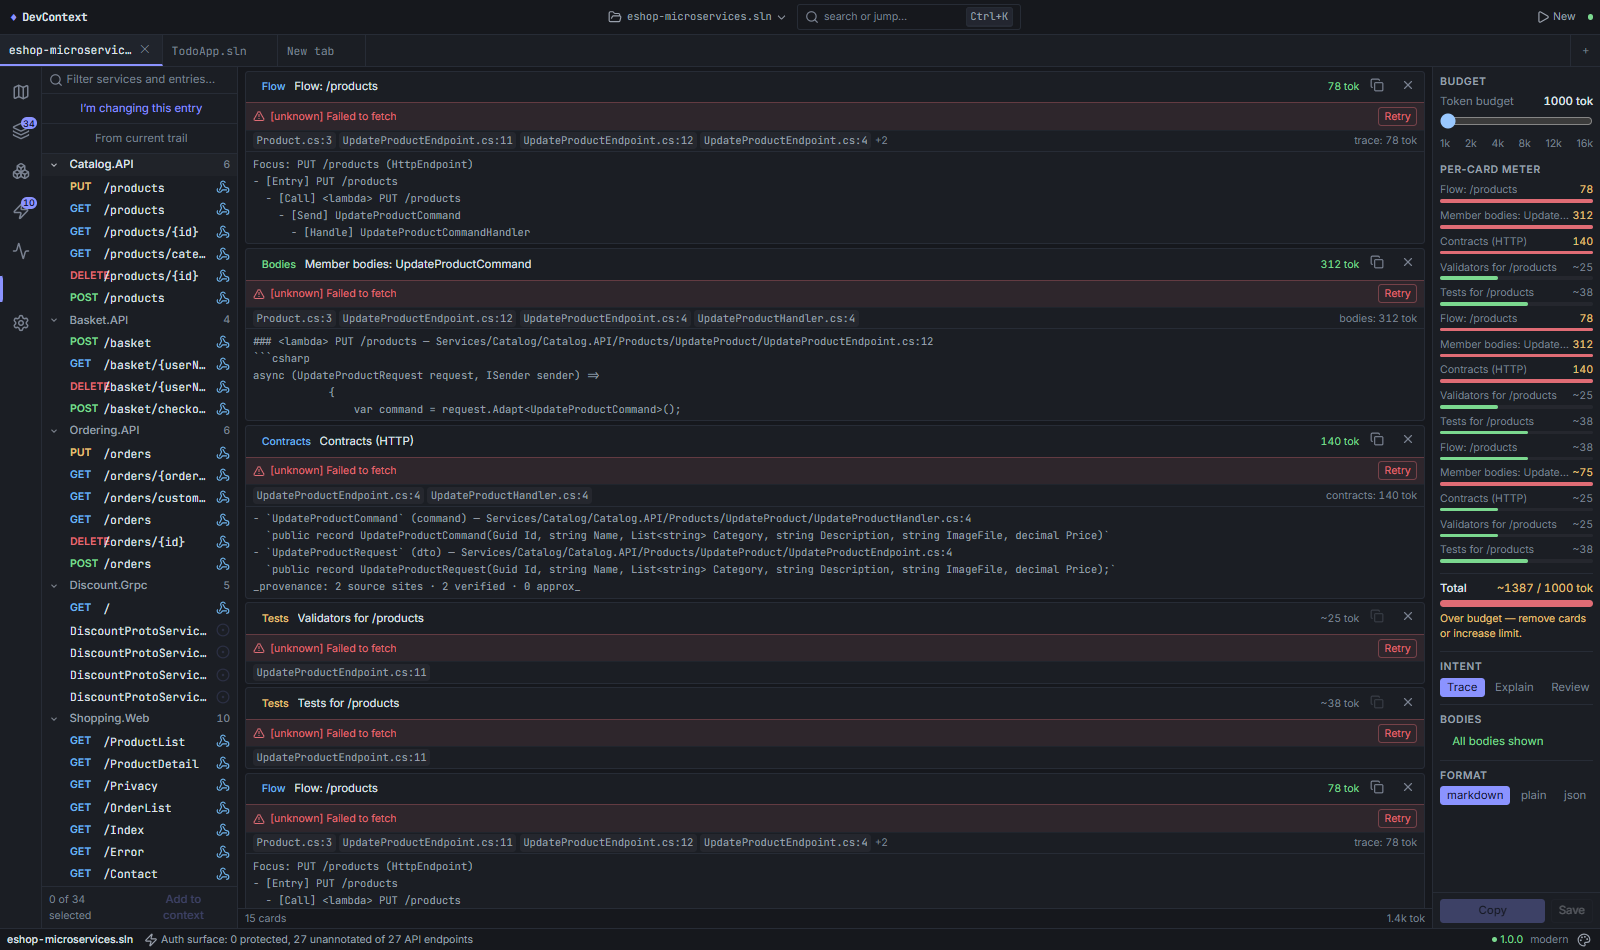
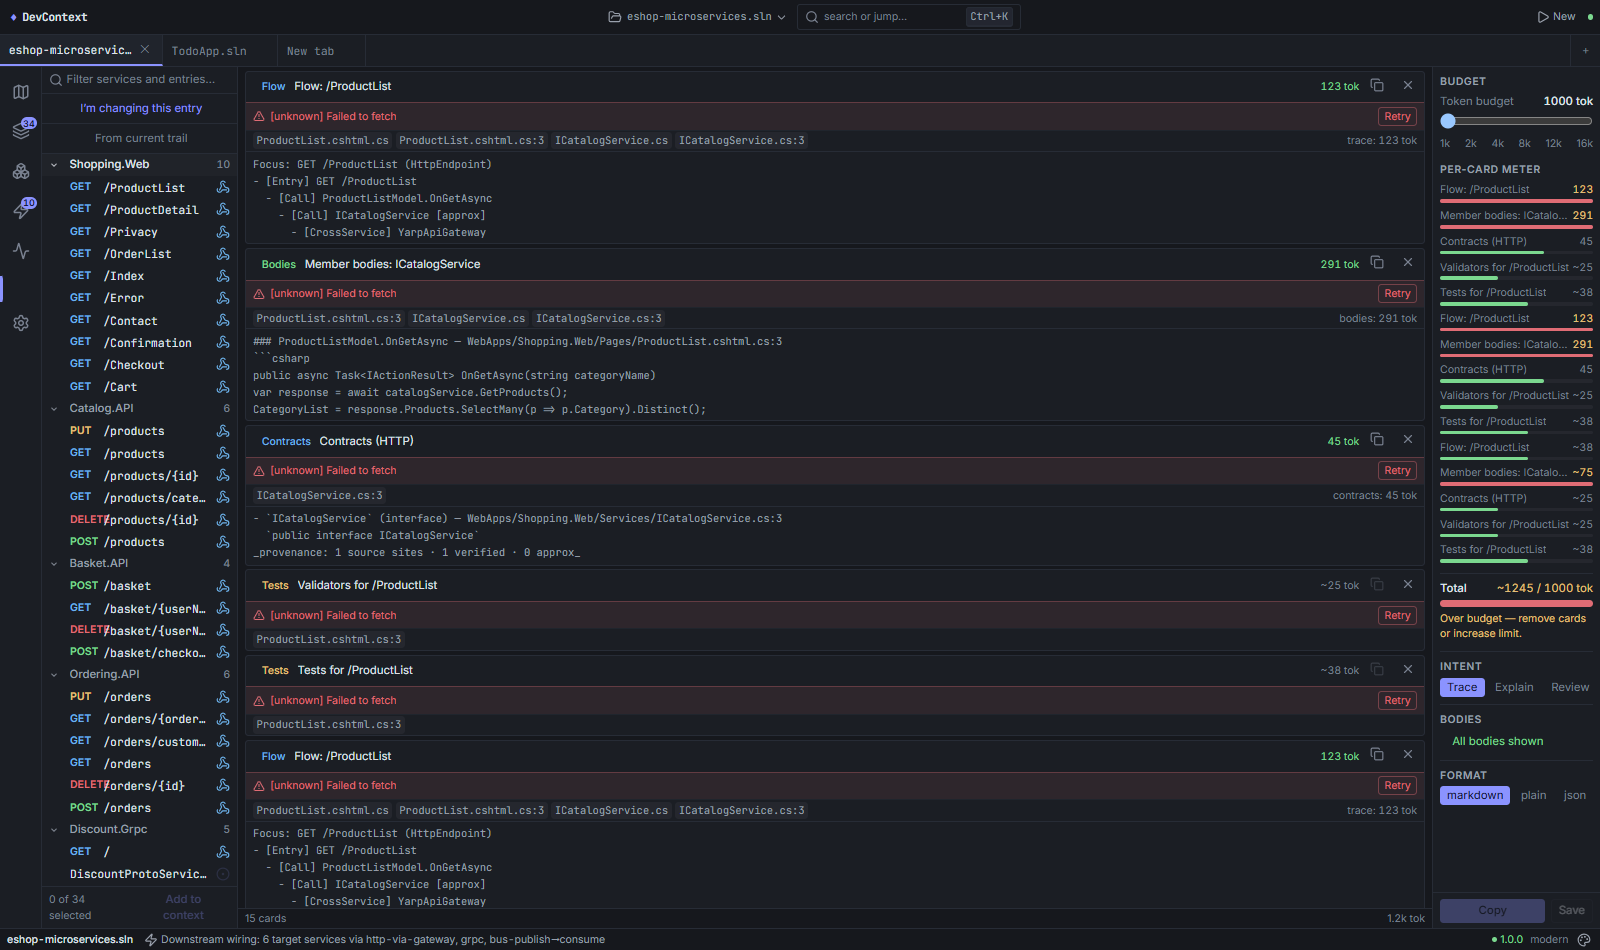
feat(t6): T6.5+T6.6 — single-key nav, route-restore guard, keyboard+theme drive battery
T6.5: the rail's declared h/e/a/i/m/c/s shortcuts now navigate (finding 37) — wired
after the g-prefix branch, input-guarded, session-gated like the rail's disabled
state. Route restore only returns to WORK routes (explore/atlas/insights/context):
restoring /settings made every fresh load of / render Settings (finding 49,
reproduced live in the T6.0 shamshir drive where it corrupted two probe results).

T6.6: drive gate gains L-theme-matrix — every vibe x declared theme (modern
dark+light, terminal/hacker dark-only BY DESIGN) reloads and asserts shell surface
luminance matches the resolved mode. J-keyboard-battery (real page.keyboard.press,
never synthetic dispatch) and K-route-restore-home join it.

Drive gate hardening: step I's drift file now comes from the pack's OWN provenance
chips (T5.3 titles are repo-relative file:line) — the hardcoded
CheckoutBasketHandler.cs went stale-proof whenever the preset seeded another focus
(the fallback search landed on WebApp's unwired GET /Checkout, audit B2's trap).
Gate: 12/12 PASS --gate exit 0 (eval-results/2026-07-16/ui/).

Claude-Session: https://claude.ai/code/session_01ChfWSCiRJV2qLww4tyTkQn

diff --git a/src/DevContext.App/src/app/shell/workspace-shell.ts b/src/DevContext.App/src/app/shell/workspace-shell.ts
@@ -42,6 +42,10 @@ const VIEW_SHORTCUTS: Record<string, string> = {
   s: '/settings',
 };
 
+/** Routes whose rail items carry `requiresSession: true` — single-key nav respects the
+ * same gate the rail's disabled state shows. */
+const SESSION_ROUTES = new Set(['/explore', '/atlas', '/insights', '/context']);
+
 /** Full §8.4 keyboard map (GAP-T2) — every row here corresponds to a real, currently
  * wired handler: `omnibox.ts` (Ctrl+K/P), `tab-strip.ts` (Ctrl+T/W/1-6/Tab), this file
  * (g-prefix nav, ?, Escape-for-help), `workbench-page.ts`'s `onGlobalKey`/`onEscape`
@@ -63,7 +67,7 @@ const SHORTCUT_HELP = [
   { keys: 'Shift+E', desc: 'Open the entry table lens' },
   { keys: 'v t / v g / v s / v n', desc: 'Stage: tree · graph · system · node' },
   { keys: 'p', desc: 'Pin the current selection to the trail' },
-  { keys: 'g h/e/a/i/m/c/s', desc: 'Go to Home / Explore / Atlas / Insights / MCP / Context / Settings' },
+  { keys: 'h/e/a/i/m/c/s (or g-prefixed)', desc: 'Go to Home / Explore / Atlas / Insights / MCP / Context / Settings' },
   { keys: '?', desc: 'Show this help' },
   { keys: 'Escape', desc: 'Esc-ladder: cancel trace → close overlay → unpin peek → deselect node → clear focus → clear filter' },
 ];
@@ -127,6 +131,7 @@ const SHORTCUT_HELP = [
 })
 export class WorkspaceShell implements OnDestroy {
   private readonly router = inject(Router);
+  private readonly session = inject(SessionStore);
   protected readonly helpItems = SHORTCUT_HELP;
   protected readonly helpOpen = signal(false);
 
@@ -139,7 +144,7 @@ export class WorkspaceShell implements OnDestroy {
     inject(WebviewShortcutsService).start();
     inject(SingleInstanceService).start();
 
-    const session = inject(SessionStore);
+    const session = this.session;
     const atlas = inject(AtlasStore);
     const ticker = inject(TickerService);
 
@@ -228,6 +233,21 @@ export class WorkspaceShell implements OnDestroy {
       }
       this.gPending.set(false);
       if (this.gTimer) clearTimeout(this.gTimer);
+      return;
+    }
+
+    // T6.5 (audit finding 37): the activity rail declares single-key shortcuts
+    // (RailItem.shortKey) that never navigated — only the g-prefix worked. Wire them.
+    // Runs AFTER the g-prefix branch so `g e` and plain `e` both land on /explore, and
+    // only when no overlay wants the key (inputs are already excluded above; page-local
+    // keys — j/k/p/v//, Enter — don't overlap this set). Session-requiring routes stay
+    // dead until a repo is analyzed, matching the rail's disabled state.
+    if (!this.helpOpen()) {
+      const route = VIEW_SHORTCUTS[e.key];
+      if (route && (this.session.ready() || !SESSION_ROUTES.has(route))) {
+        e.preventDefault();
+        void this.router.navigateByUrl(route);
+      }
     }
   }
 

diff --git a/src/DevContext.App/src/app/shell/tab-strip.ts b/src/DevContext.App/src/app/shell/tab-strip.ts
@@ -5,6 +5,12 @@ import { filter } from 'rxjs/operators';
 import { SessionStore } from '../state/session.store';
 import { type TabState, WorkspaceStore } from '../state/workspace.store';
 
+/** Boot-restore targets: pages that represent WORK in progress. Settings/MCP are
+ * destinations you visit deliberately, not places to wake up in (finding 49). */
+function isRestorableRoute(route: string): boolean {
+  return /^\/(explore|atlas|insights|context)([/?#]|$)/.test(route);
+}
+
 /**
  * The 32px multi-tab strip (I10) — sits under the header, to the right of the icon rail. Up to
  * WorkspaceStore.MAX_TABS independent repo sessions; switching rewrites the URL to that tab's last
@@ -83,9 +89,12 @@ export class TabStrip {
     // On boot, restored tabs land on screen idle (I10.4 — never auto-analyze all of them). If the
     // one that was active when the app last closed carries a path, jump straight to its remembered
     // route and lazily re-analyze it (below) — the OTHER restored tabs stay untouched until clicked.
+    // T6.5 (audit finding 49): restore only WORK routes. Restoring /settings (or /mcp) made every
+    // fresh load of `/` render Settings — reproduced live in the T6.0 shamshir drive, where it also
+    // corrupted two probe results. Home is the honest landing for non-work remembered routes.
     const initialActive = this.workspace.activeTab();
-    if (initialActive?.path && this.router.url === '/') {
-      void this.router.navigateByUrl(initialActive.route || '/', { replaceUrl: true });
+    if (initialActive?.path && this.router.url === '/' && isRestorableRoute(initialActive.route)) {
+      void this.router.navigateByUrl(initialActive.route, { replaceUrl: true });
     }
 
     // The one reactive rule behind "first activation analyzes lazily": whenever the active tab is

diff --git a/eval-results/2026-07-16/ui/ui-gate.md b/eval-results/2026-07-16/ui/ui-gate.md
@@ -14,13 +14,16 @@ green-wash. Run with `--gate` (armed in L6) to enforce.
 |---|-----------|--------|-------|-------|--------|
 | A-tabstrip-height | tab strip height >= 30px | PASS | U1 | L6.1 | stripH=32px (want >=30) |
 | B-new-preserves-tabs | titlebar New preserves other tabs | PASS | U2 | L6.1 | before=["eshop-microservic…✕","TodoApp.sln✕"] after=["eshop-microservic…✕","TodoApp.sln✕","New tab✕"] lost=[] added=true |
-| C-code-pane-nonempty | code pane non-empty on entry selection | PASS | U3 | L6.2 | code length=695 |
+| C-code-pane-nonempty | code pane non-empty on entry selection | PASS | U3 | L6.2 | code length=874 |
 | D-context-preset-cards | context studio preset seeds >= 1 card | PASS | U6 | L6.4 | cards=5 |
-| E-omitted-list-rendered | tiny-budget pack renders the omitted[] list | PASS | R1 | T5.1 | visible=true text=Omitted (8) tests (Validators for /products): no content for its entries — omitt |
+| E-omitted-list-rendered | tiny-budget pack renders the omitted[] list | PASS | R1 | T5.1 | visible=true text=Omitted (7) tests (Validators for /ProductList): no content for its entries — om |
 | F-pack-error-retry | failed pack RPC shows card error; retry recovers | PASS | R4 | T5.1 | errorShown=true clearedAfterRetry=true |
-| G-repack-on-budget | budget change re-packs: copy@4k != copy@1k, headers match slider | PASS | C1 | T5.6 | 4k=10749ch(hdr4k=true) 1k=7158ch(hdr1k=true) differ=true |
-| H-plain-not-markdown | plain copy differs from markdown copy (bytes) | PASS | C1 | T5.6 | plain=6891ch differ=true noHeadings=true |
+| G-repack-on-budget | budget change re-packs: copy@4k != copy@1k, headers match slider | PASS | C1 | T5.6 | 4k=7689ch(hdr4k=true) 1k=6288ch(hdr1k=true) differ=true |
+| H-plain-not-markdown | plain copy differs from markdown copy (bytes) | PASS | C1 | T5.6 | plain=6069ch differ=true noHeadings=true |
 | I-verification-stale-cycle | verification ledger: fresh -> stale on disk edit -> fresh on restore | PASS | R6 | T5.2 | fresh=true staleAfterEdit=true freshAfterRestore=true |
+| J-keyboard-battery | single-key + g-prefix nav, ? help, Ctrl+K omnibox all work | PASS | 37 | T6.5 | {"singleE":"/explore","singleA":"/atlas","gThenH":"/","helpOpen":true,"omniboxOpen":true} |
+| K-route-restore-home | fresh boot of / renders Home even after a /settings visit | PASS | 49 | T6.5 | restoreHome=true |
+| L-theme-matrix | every declared vibe x theme paints the shell surfaces in that mode | PASS | 38-39 | T6.6 | modern/dark:ok modern/light:ok terminal/dark:ok hacker/dark:ok |
 
 ## Red items enumerated (owner stage)
 

diff --git a/eval-results/2026-07-16/ui/notes.md b/eval-results/2026-07-16/ui/notes.md
@@ -3,16 +3,24 @@ dogfood analyzed: true
 tab-strip: {"found":true,"stripH":32,"tabs":[{"h":31,"fontSize":"11.375px","label":"eshop-microservic…✕"}]}
 tabs before New: ["eshop-microservic…✕","TodoApp.sln✕"]
 tabs after New: ["eshop-microservic…✕","TodoApp.sln✕","New tab✕"]
-code pane content len: 695
+code pane content len: 874
 context preset cards: 5
 budget slider set to 1000
-omitted list visible: true text: Omitted (8) tests (Validators for /products): no content for its entries — omittedtests (Tests for /products): no content for its entries — omittedtests (Valida
+omitted list visible: true text: Omitted (7) tests (Validators for /ProductList): no content for its entries — omittedtests (Tests for /ProductList): no content for its entries — omittedtests (
 console.error: Failed to load resource: net::ERR_CONNECTION_REFUSED
 card error shown while server unreachable: true
 errors cleared after retry: true
-copy @4k: 10749 chars
-copy @1k: 7158 chars
-copy plain@1k: 6891 chars
+copy @4k: 7689 chars
+copy @1k: 6288 chars
+copy plain@1k: 6069 chars
+I: provenance chips: ["WebApps/Shopping.Web/Pages/ProductList.cshtml.cs","WebApps/Shopping.Web/Pages/ProductList.cshtml.cs:3","WebApps/Shopping.Web/Services/ICatalogService.cs","WebApps/Shopping.Web/Services/ICatalogService.cs:3"]
+I: drift file: C:\Users\shahi\source\repos\run-aspnetcore-microservices\src\WebApps\Shopping.Web\Pages\ProductList.cshtml.cs
 verification before edit: {"panel":true,"fresh":true,"stale":false}
 verification after edit: {"panel":true,"fresh":false,"stale":true}
 verification after restore: {"panel":true,"fresh":true,"stale":false}
+keyboard: {"singleE":"/explore","singleA":"/atlas","gThenH":"/","helpOpen":true,"omniboxOpen":true}
+route-restore: path=/ settingsRendered=false
+theme modern/dark: resolved=dark surfaces=[0.09,0.12,0.12,0.09,0.09] offenders=0
+theme modern/light: resolved=light surfaces=[0.97,1.00,1.00,0.97,0.97] offenders=0
+theme terminal/dark: resolved=dark surfaces=[0.05,0.08,0.08,0.05,0.05] offenders=0
+theme hacker/dark: resolved=dark surfaces=[0.04,0.05,0.05,0.04,0.04] offenders=0
